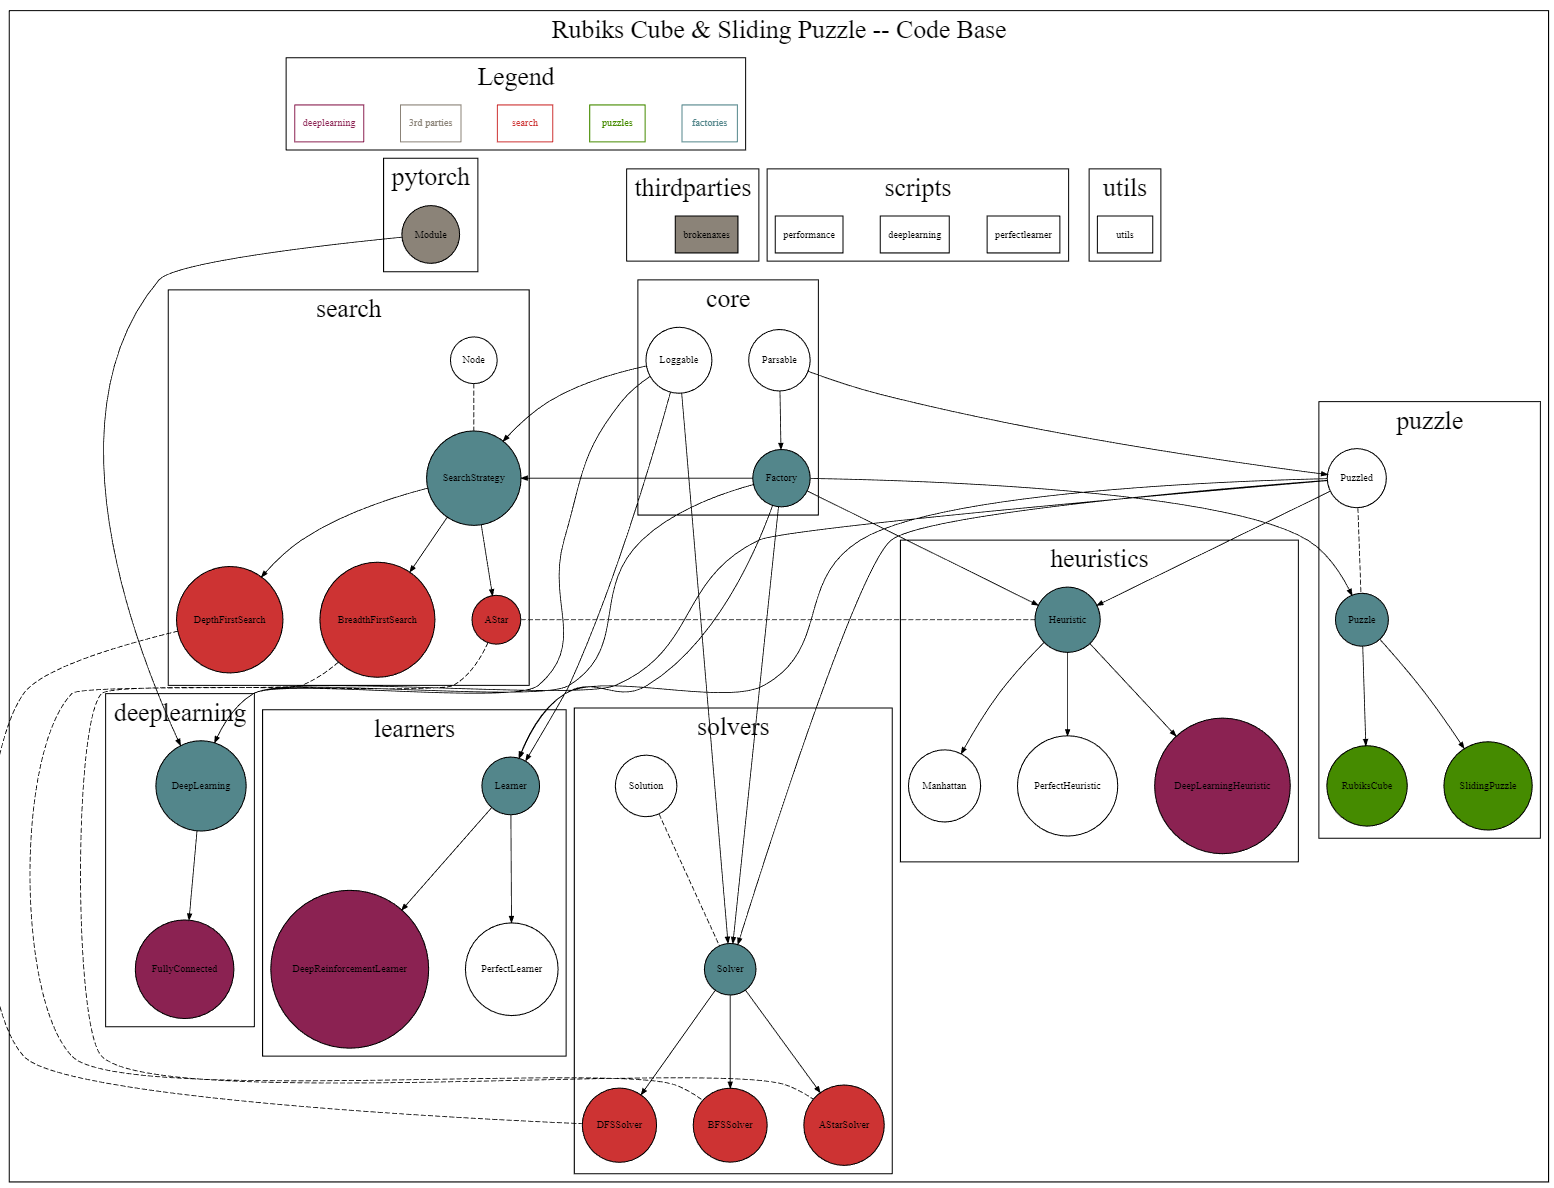
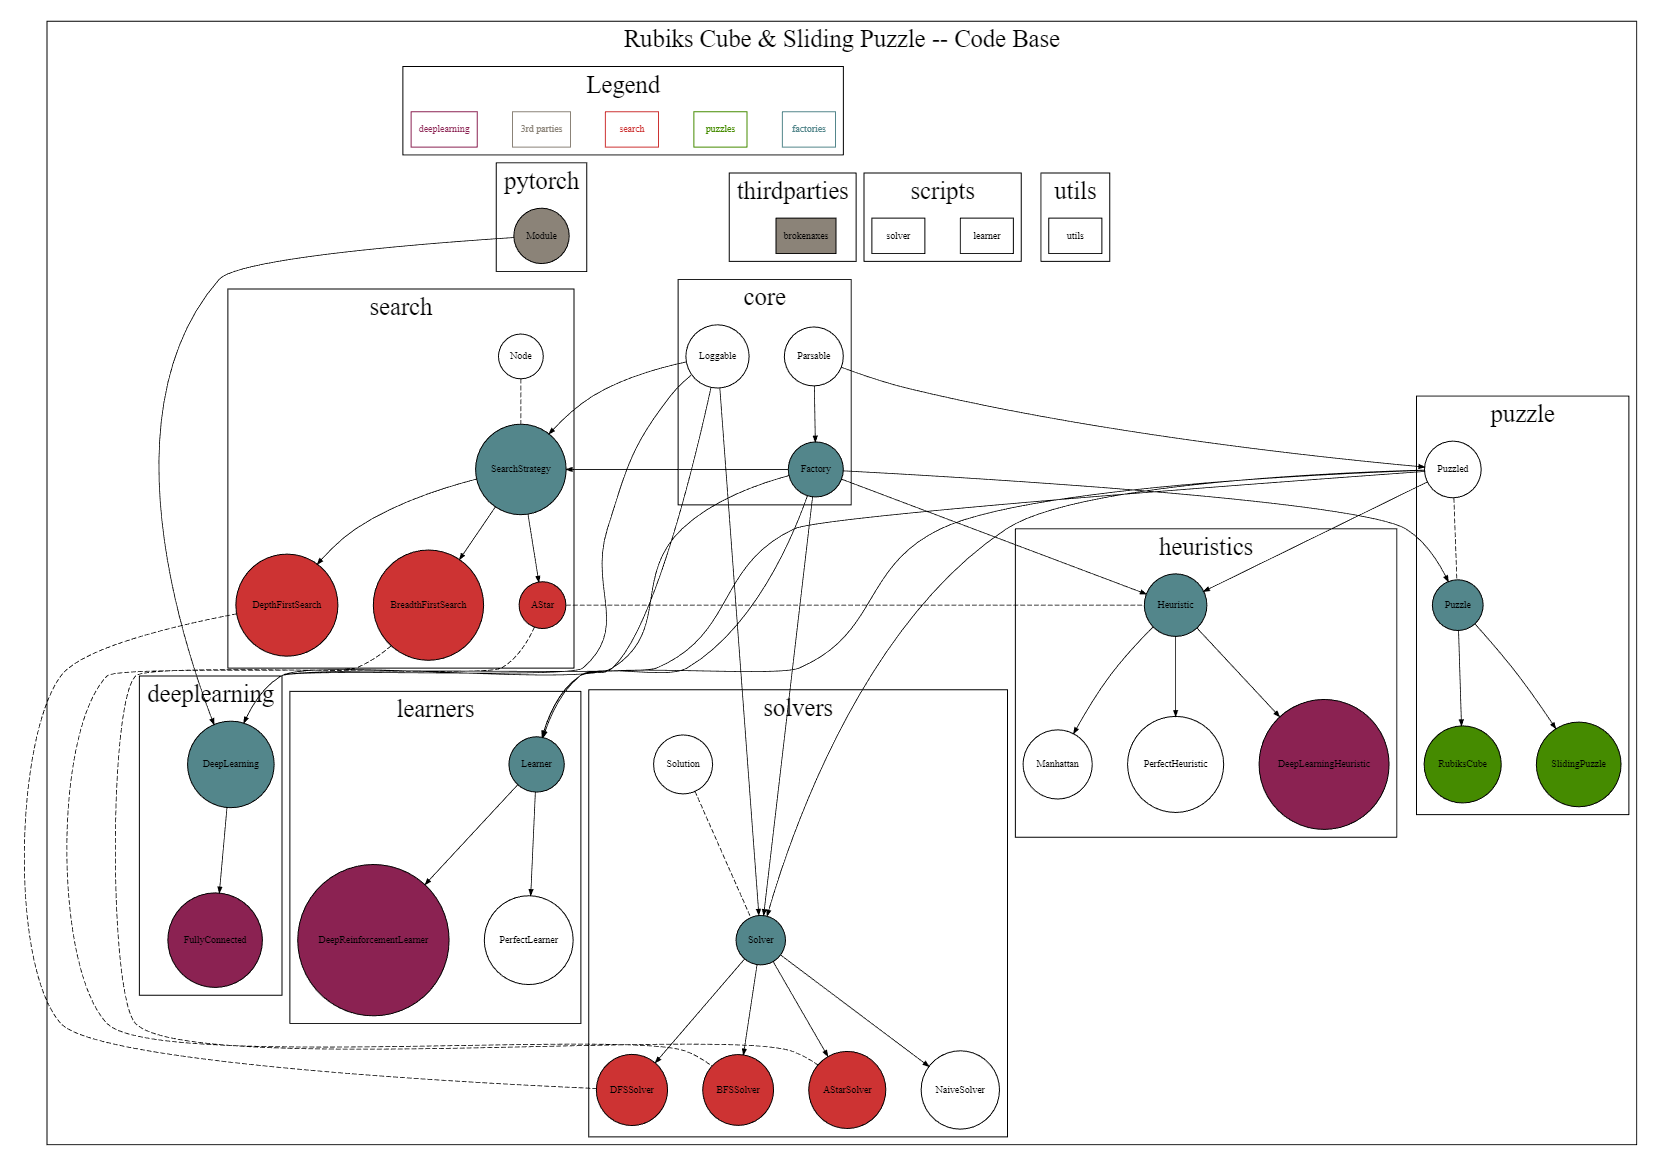
update

Changed region(s): [[0.0, 0.0, 1.0, 1.0], [0.6178, 0.3411, 0.6795, 0.3721]]

diff --git a/rubiks/solvers/solver.py b/rubiks/solvers/solver.py
@@ -441,7 +441,10 @@ class Solver(Factory, Puzzled, Loggable, metaclass=ABCMeta):
     def action(self):
         config = self.get_config()
         if self.do_plot == self.action_type:
-            self.plot_performance()
+            try:
+                self.plot_performance()
+            except KeyboardInterrupt:
+                self.log_warning('KeyboardInterrupt raised')
         elif self.do_solve == self.action_type:
             puzzle = Puzzle.factory(**self.get_config())
             puzzle = puzzle.apply_random_moves(nb_moves=config[self.__class__.nb_shuffles])
@@ -493,7 +496,7 @@ class Solver(Factory, Puzzled, Loggable, metaclass=ABCMeta):
         title = {cls.puzzle_type: puzzle_type,
                  cls.puzzle_dimension: puzzle_dimension,
                  cls.performance_file_name: self.performance_file_name}
-        fields_to_add = [cls.nb_samples]
+        fields_to_add = [cls.nb_samples, cls.time_out]
         for field in fields_to_add:
             title[field] = self.get_config()[field]
         fig = plt.figure(self.performance_file_name,

diff --git a/rubiks/scripts/solver.py b/rubiks/scripts/solver.py
@@ -21,7 +21,7 @@ if '__main__' == __name__:
                             Solver.do_cleanup_performance_file,
                             Solver.do_cleanup_shuffles_file,
                             } """
-    action_type = Solver.do_performance_test
+    action_type = Solver.do_plot
     """ What puzzle """
     puzzle_type = Puzzle.sliding_puzzle
     n = 3
@@ -31,7 +31,7 @@ if '__main__' == __name__:
     nb_shuffles = 6
     """ For performance test """
     nb_samples = 1000
-    min_nb_shuffles = 10
+    min_nb_shuffles = 0
     max_nb_shuffles = 50
     step_nb_shuffles = 2
     add_perfect_shuffle = True
@@ -66,7 +66,7 @@ if '__main__' == __name__:
     heuristic_type = Heuristic.deep_learning
     """ If deep_learning, what network_type {DeepLearning.fully_connected_net} """
     network_type = DeepLearning.fully_connected_net
-    layers_description = (600, 300, 100)
+    layers_description = (599, 300, 100)
     one_hot_encoding = True
     try:
         if heuristic_type == Heuristic.deep_learning:

diff --git a/rubiks/scripts/learner.py b/rubiks/scripts/learner.py
@@ -19,17 +19,17 @@ if '__main__' == __name__:
                             Learner.do_plot,
                             Learner.do_cleanup_learning_file,
                             } """
-    action_type = Learner.do_learn
+    action_type = Learner.do_plot
     """ What puzzle """
     puzzle_type = Puzzle.sliding_puzzle
-    n = 4
-    m = 4
+    n = 3
+    m = 3
     dimension = Puzzle.factory(**globals()).dimension()
     """ Which learner_type {Learner.perfect,
                             Learner.deep_reinforcement_learner,
                             } 
     """
-    learner_type = Learner.perfect_learner
+    learner_type = Learner.deep_reinforcement_learner
     """ for plot """
     plot_metrics = DeepReinforcementLearner.default_plot_metrics
     """ If it's a perfect learner config here """
